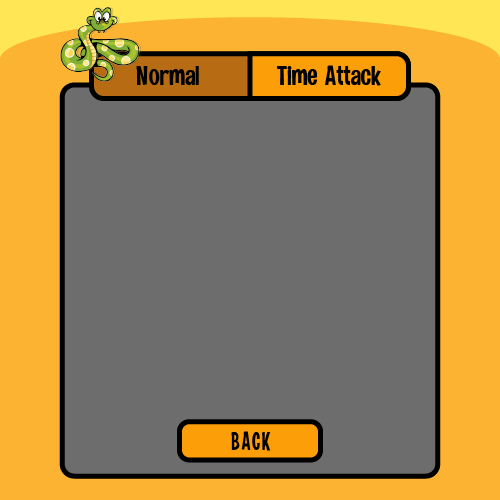
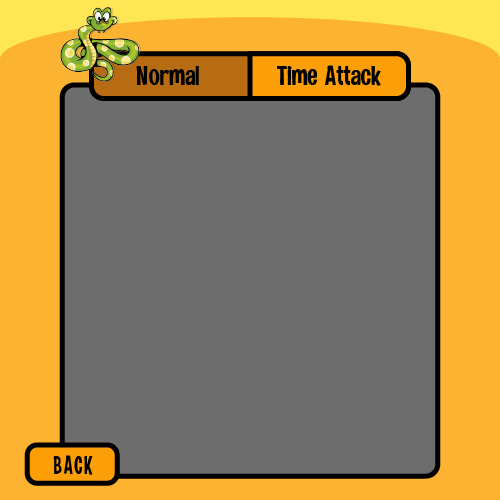
Back Button

Changed region(s): [[0.33, 0.84, 0.66, 0.93], [0.03, 0.87, 0.24, 0.99]]

diff --git a/Snake2D/src/com/kresnaap/snakegame/Board.java b/Snake2D/src/com/kresnaap/snakegame/Board.java
@@ -821,8 +821,10 @@ public class Board extends JPanel implements ActionListener {
 //            System.out.println(mx);
 //            System.out.println(my);
             
-            if (inMenu == true) {
-
+            if (inMenu == true && inHs == false) {
+            	
+//            	System.out.println(inMenu);
+//            	System.out.println(inHs);
                 if (mx >= 110 && mx <= 380) {
                     if (my >= 240 && my <= 300) {
                     	
@@ -845,7 +847,7 @@ public class Board extends JPanel implements ActionListener {
 
                 if (mx >= 110 && mx <= 380) {
                     if (my >= 400 && my <= 460) {
-                    	if(inMenu)
+                    	if(inMenu == true)
                     	{
 //                    		System.out.print("HighScore");
                     		inHs = true;
@@ -862,6 +864,7 @@ public class Board extends JPanel implements ActionListener {
             	if (mx >= 250 && mx <= 400) {
                     if (my >= 50 && my <= 100) {
                     	
+                    	// Render TimeAttack Highscore
                     	timehs.getData();
                     	timehs.renderMenu(getGraphics());
                     }
@@ -870,8 +873,19 @@ public class Board extends JPanel implements ActionListener {
             	if (mx >= 90 && mx <= 250) {
                     if (my >= 50 && my <= 100) {
                     	
+                    	// Render Normal Highscore
                     	normalhs.getData();
                     	normalhs.renderMenu(getGraphics());
+                    }
+            	}
+            	
+            	if (mx >= 30 && mx <= 120) {
+                    if (my >= 445 && my <= 480) {
+                    	
+                    	// Back to Menu
+                    	inMenu = true;
+                    	inHs = false;
+                    	menu.render(getGraphics());
                     }
             	}
             }
